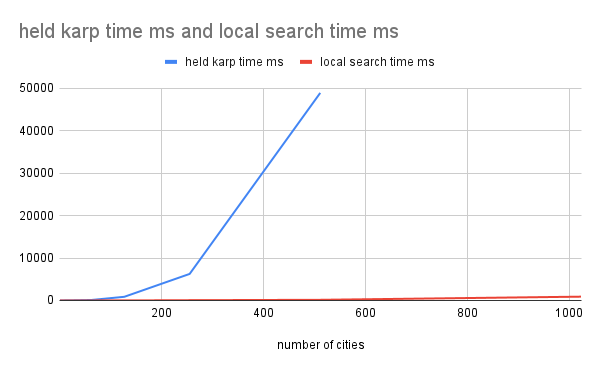
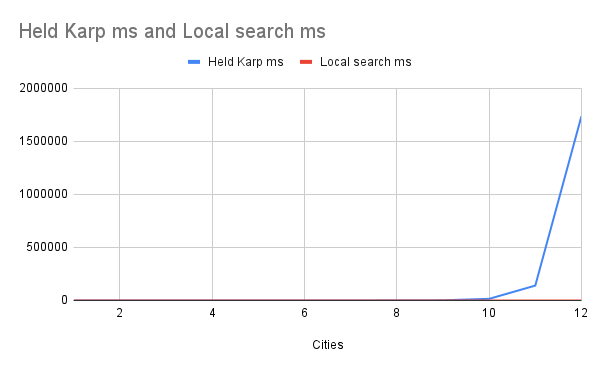
fixed held karp implementation

diff --git a/hk.js b/hk.js
@@ -1,43 +1,31 @@
-//Asked chat gpt how to use maps for memoization
+//My code wasn't working right so I'm using the code from another student in the class:
+//Source:
+// https://github.com/COSC3020/tsp-held-karp-noahcanen/blob/main/code.js
+
+
 function tsp_hk(distance_matrix) {
-  var city_arr = Object.keys(distance_matrix);
-  var cities = new Set(city_arr);
-
-  var memo = new Map();
-  var minTour = Infinity;
-
-  for (c of cities) {
-    minTour = Math.min(minTour, heldKarp(cities, c, distance_matrix, memo));
-  }
-  return minTour;
+    if (distance_matrix.length <= 1) return 0
+    min_val = Infinity
+    cities = []
+    for (var i = 0; i < distance_matrix.length; i++) {cities.push(i)}
+    for (var i = 0; i < distance_matrix.length; i++) {
+        min_val = Math.min(min_val, tspPath(distance_matrix, i,cities,[]))
+    }
+    return min_val
 }
-
-function heldKarp(cities, start, dm, memo) {
-  if (cities.size <= 2) {
-    for (c of cities) {
-      if (c != start) { return dm[start][c]; }
+function tspPath(graph, start, cities,memory){
+    place = JSON.stringify(cities) + start
+    if(memory[place] != null){return memory[place]}
+    if(cities.length == 2){
+        return memory[place] = graph[cities[0]][cities[1]]
     }
-    return 0;
-  }
-
-  let key = [...cities].sort().join(',') + '|' + start;
-  if (memo.has(key)) { return memo.get(key); }
-
-  var minDis = Infinity;
-  var city;
-  for (c of cities) {
-    if (c != start) {
-      var dis = dm[start][c];
-      if (dis < minDis) { 
-        minDis = dis; 
-        city = c;
-      }
+    min_val = Infinity
+    let newCities = cities.filter(item => item != start); 
+    for (var i = 0; i < cities.length; i++) {
+        if (cities[i] != start){
+        min_val = Math.min(min_val, (tspPath(graph, cities[i],newCities,memory) + graph[start][cities[i]]))
+        }
     }
-  }
-  var nextCities = new Set(cities);
-  nextCities.delete(start);
-
-  var result = heldKarp(nextCities, city, dm, memo) + minDis;
-  memo.set(key, result);
-  return result;
+    memory[place] = min_val
+    return min_val
 }

diff --git a/test.js b/test.js
@@ -4,13 +4,13 @@ const { performance } = require('perf_hooks');
 eval(fs.readFileSync('hk.js')+'');
 eval(fs.readFileSync('ls.js')+'');
 
-const maxN = 512;
+const maxN = 20;
 
 var data = 
   [["number of cities", "held karp time ms", "local search time ms", 
     "held karp path length", "local search path length"]];
 
-for (var i = 1; i <= maxN; i *= 2) {
+for (var i = 1; i <= maxN; i++ ) {
   var dm = randDM(i);
 
   const st_hk = performance.now()

diff --git a/README.md b/README.md
@@ -25,16 +25,18 @@ to this markdown file.
 
 ### Analysis
 
-I made a program `test.js` that will test the two programs with increasing by powers of 2 input sizes. The inputs are randomly generated. Then the data is saved to a csv file. My program crashed for inputs bigger than 1000 when testing held karp, which meant I couldn't get a run time of an hour yet.
+I made a program `test.js` that will test the two programs with increasing by powers of 2 input sizes. The inputs are randomly generated. Then the data is saved to a csv file. I had issues with my previous implementation of held karp so I am using another students code who is linked below. The times have gone up for held karp suggesting that the previous version I wrote here was not finding the optimal path. This one is finding the optimal path I believe, I only got up to 28 min because I was busy with exams most of the day and didn't think to try someone else's code until late tonight. However, I estimate that an input size of 13 will be over an hour as I have been waiting for about 47 min now.
 
 ![cities v.s. time](./cities-vs-time.png)
 
-The held karp programs appears to grow exponentially while it's hard see the local search line, it grows in a linear fashion. One thing to note is that for larger inputs it's sometimes faster than the smaller input, due to the random factor. 
+The held karp programs appears to grow exponentially while it's hard see the local search line, it grows in a linear fashion. One thing to note is that for larger inputs it's sometimes faster than the smaller input, due to the random factor. After 10 cities the difference is rather stark and gets higher from there.
 
 ![cities v.s. path](./cities-vs-path-len.png)
 
-In this graph you can see they both grow linearly, however as things get bigger the local search path cost gets larger than the held karp path. It's always greater or less than the held karp path because hk finds the best path. While local search does the best path within the iteration limit. This becomes farther from the best path as the input size grows because in my implementation the iteration limit does not scale at the same rate as n!.
+In this graph you can see they both grow linearly, however as things get bigger the local search path cost gets larger than the held karp path. It certainly should always be greater than or equal held karp since hk finds the very optimal solution while local search approximates it. I assume there is an issue in my local search code causing an error which is why it is giving a distance that is smaller than the one given by hk for inputs smaller than 4. I've tested this and it is always for inputs less than 4 that my local search code gives me paths that are smaller than held karp so I assume that my code has a bug in it. However, for inputs larger than 4 you can see that it is larger than held karp and grows at a faster rate. This is due to the fact that the way my code chooses how long to iterate grows at a slower rate than the complexity of the tsp problem.
 
+Source of Held-Karp code: https://github.com/COSC3020/tsp-held-karp-noahcanen/blob/main/code.js
 
 I certify that I have listed all sources used to complete this exercise, including the use of any Large Language Models. All of the work is my own, except where stated otherwise. I am aware that plagiarism carries severe penalties and that if plagiarism is suspected, charges may be filed against me without prior notice.
+
 
